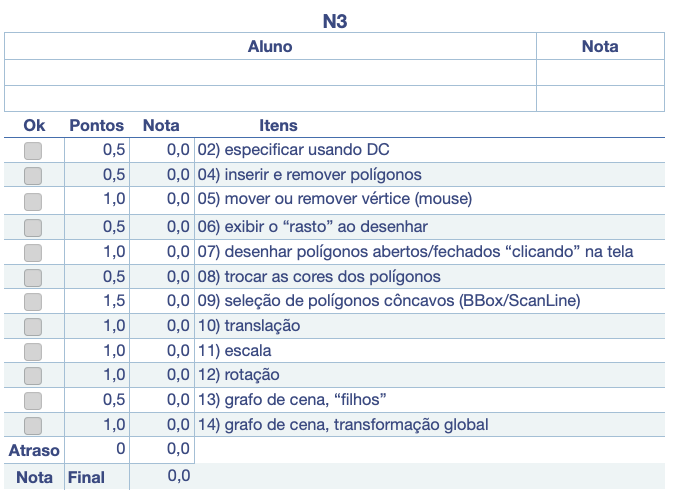
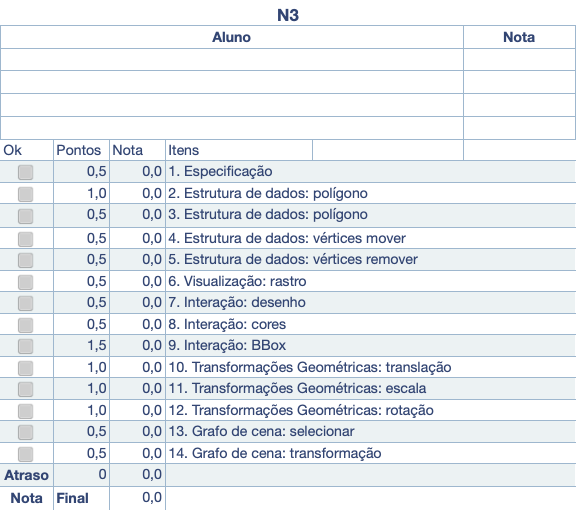
.

Changed region(s): [[0.0, 0.0605, 0.9965, 0.998], [0.4671, 0.0, 0.5294, 0.0605]]

diff --git a/Unidade3/Atividade3.md b/Unidade3/Atividade3.md
@@ -29,12 +29,12 @@ Observação: as funções do OpenGL/OpenTK "glTranslate", "glRotate" e "glScale
 
 \[Peso 0,5] Especifique as classes, métodos e atributos usando Diagrama de Classes.  
 
-## 2. Estrutura de dados: polígono
+## 2. Estrutura de dados: polígono - adicionar
 
 \[Peso 1,0] Utilize o mouse para clicar na tela com botão direito e poder desenhar um novo polígono.  
 Quando pressionar a tecla Enter finaliza o desenho do novo polígono.  
 
-## 3. Estrutura de dados: polígono
+## 3. Estrutura de dados: polígono - remover
 
 \[Peso 0,5] Utilize a tecla D para remover o polígono selecionado.  
 
